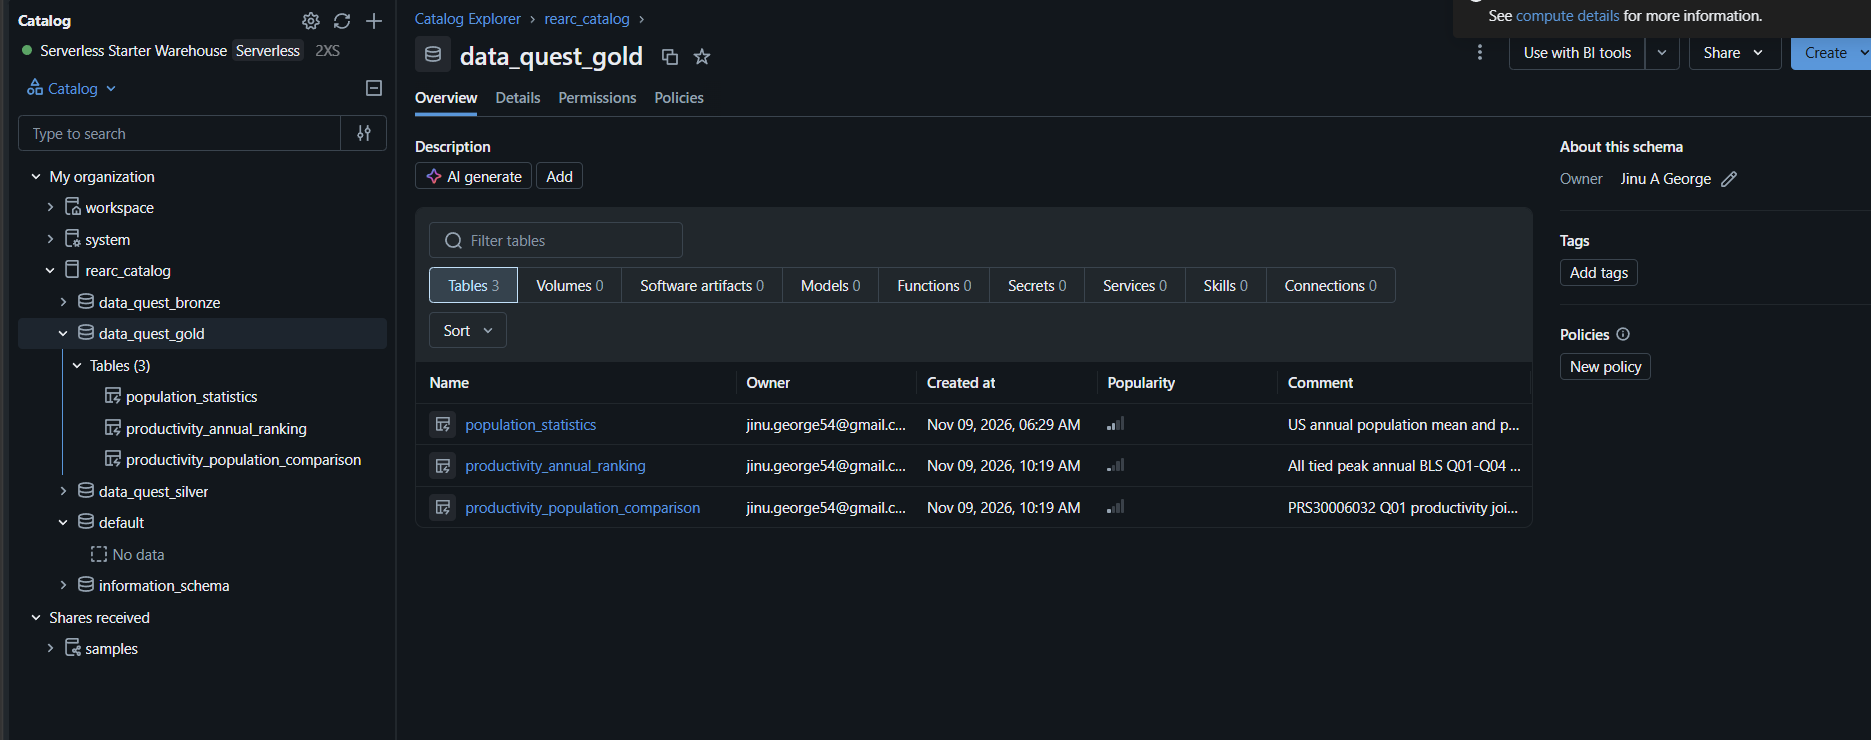
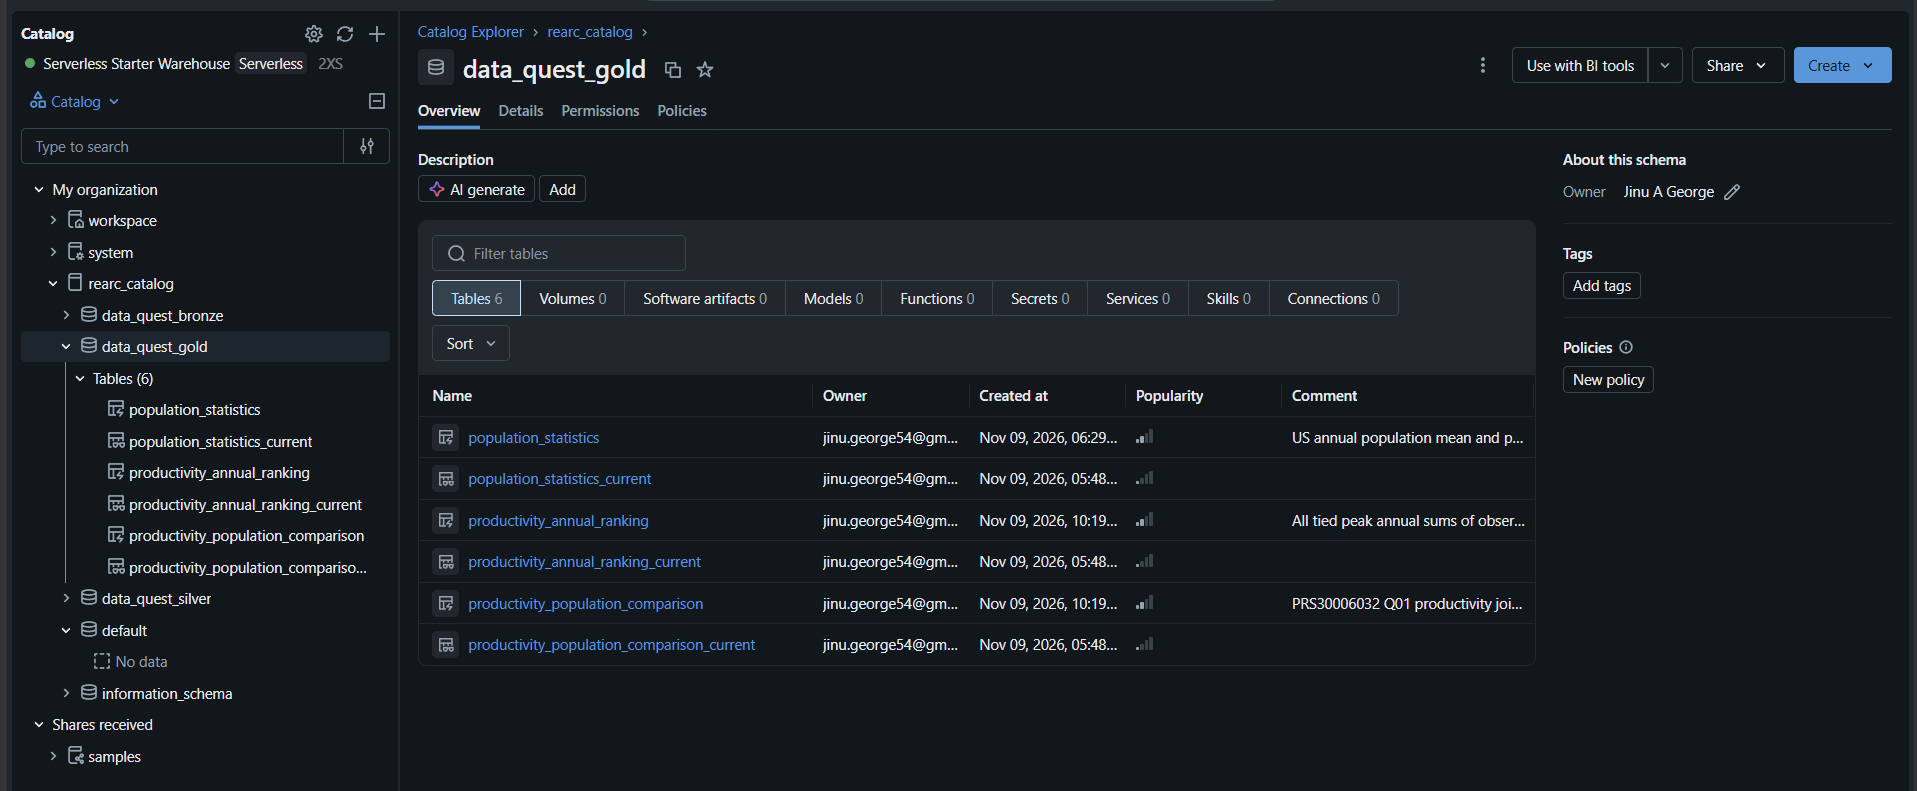
Enhance documentation with updated screenshots for population statistics and productivity rankings; remove outdated images

diff --git a/SCREENSHOTS.md b/SCREENSHOTS.md
@@ -162,21 +162,37 @@ Gold contains business-ready outputs for the population summary, annual producti
 
 *Population mean and standard deviation output for the requested period.*
 
+![Population statistics current view](screenshots/11.2-unity_catalog-data_quest_gold.population_statistics_current_view.png)
+
+*Current Gold view definition, filtered to the latest snapshot of the population statistics table.*
+
 ### Highest annual productivity per series
 
 ![Annual productivity ranking columns](screenshots/11.3-unity_catalog-data_quest_gold.productivity_annual_ranking_table_columns.png)
 
 *Output schema for the per-series annual productivity ranking.*
 
-![Annual productivity ranking result](screenshots/11.3-unity_catalog-data_quest_gold.productivity_annual_ranking_table_data.png)
+![Annual productivity ranking current view](screenshots/11.3-unity_catalog-data_quest_gold.productivity_annual_ranking_current_view.png)
+
+*Current Gold view definition, filtered to the latest snapshot of the annual ranking table.*
+
+![Annual productivity ranking result, first view](screenshots/11.3-unity_catalog-data_quest_gold.productivity_annual_ranking_table_data_01.png)
 
 *Selected highest annual productivity totals with series descriptions.*
+
+![Annual productivity ranking result, second view](screenshots/11.3-unity_catalog-data_quest_gold.productivity_annual_ranking_table_data_02.png)
+
+*Additional ranking output columns, including quarterly coverage and snapshot details.*
 
 ### Productivity with population
 
 ![Productivity-population comparison columns](screenshots/11.4-unity_catalog-data_quest_gold.productivity_population_comparison_table_columns.png)
 
 *Output schema for the target productivity-series and population comparison.*
+
+![Productivity-population comparison current view](screenshots/11.4-unity_catalog-data_quest_gold.productivity_population_comparison_current_view.png)
+
+*Current Gold view definition, filtered to the latest snapshot of the comparison table.*
 
 ![Productivity-population comparison, first view](screenshots/11.4-unity_catalog-data_quest_gold.productivity_population_comparison_table_data_01.png)
 
